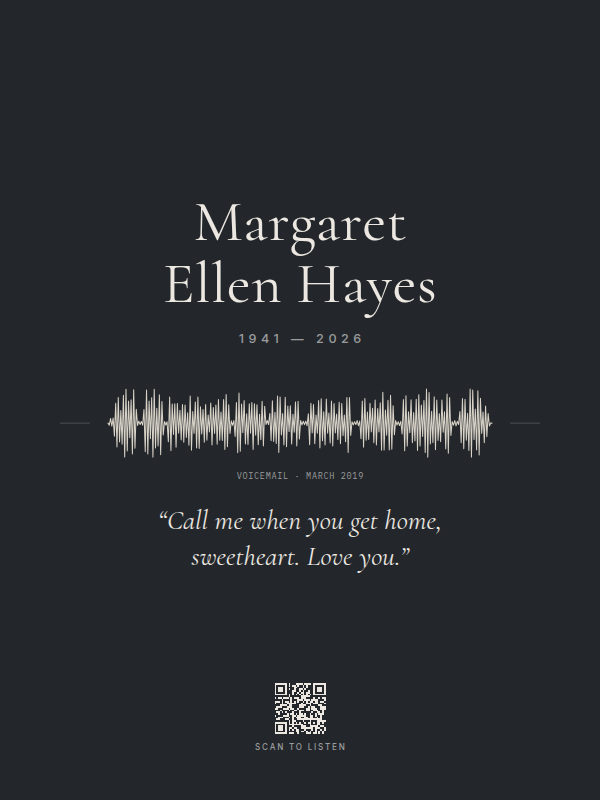
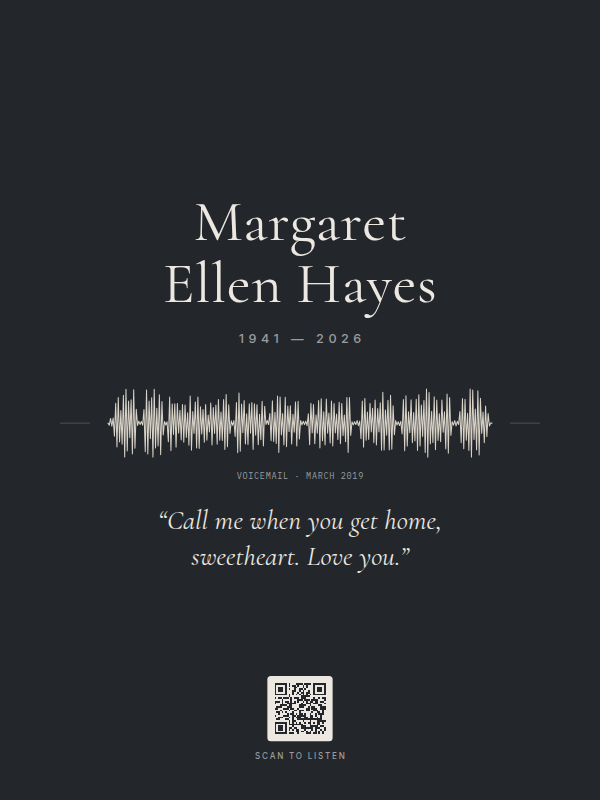
Render curated orders to vector PDF in fulfillment; make QR codes scan reliably
- fulfill.py renders orders with artworkSpec through scripts/render-art.ts
  (same renderer as the preview): exact physical size, embedded fonts
- QR codes: always dark-on-light (light tile on dark colourways) with a
  4-module quiet zone and 0.9in minimum; all 45 design/colour/size
  combinations decode with ZXing at 100 px/in

Claude-Session: https://claude.ai/code/session_01EBDdCRdz58Q2dPUuYL21jA

Changed region(s): [[0.42, 0.8438, 0.57, 0.9688]]

diff --git a/src/lib/art/designs/common.ts b/src/lib/art/designs/common.ts
@@ -6,7 +6,7 @@ import type { Colorway, RenderContext } from "../types";
 export const upi = (ctx: RenderContext) => ctx.W / ctx.opts.widthIn;
 
 /** QR size in canvas units: never smaller than `minIn` physical inches (scan reliability). */
-export function qrSize(ctx: RenderContext, minIn = 0.85, share = 0.085): number {
+export function qrSize(ctx: RenderContext, minIn = 0.9, share = 0.085): number {
   return Math.max(minIn * upi(ctx), ctx.W * share);
 }
 
@@ -36,12 +36,22 @@ export function qrBlock(
   const align = o.align ?? "center";
   const left = align === "center" ? o.x - size / 2 : align === "right" ? o.x - size : o.x;
   const labelSize = minType(ctx);
-  let svg = qrPath(qrUrl(ctx), left, o.y, size, o.color);
+  // Phone cameras expect dark modules on a light ground. On dark colourways the
+  // code sits on a small light tile (with quiet zone) instead of being inverted.
+  const paper = ctx.colorway.paper;
+  let svg: string;
+  if (luminance(o.color) > luminance(paper)) {
+    const pad = size * 0.14; // ≈4 modules of quiet zone for a version-3 code
+    svg = `<rect x="${(left - pad).toFixed(2)}" y="${(o.y - pad).toFixed(2)}" width="${(size + pad * 2).toFixed(2)}" height="${(size + pad * 2).toFixed(2)}" rx="${(pad * 0.5).toFixed(2)}" fill="${o.color}"/>`;
+    svg += qrPath(qrUrl(ctx), left, o.y, size, paper);
+  } else {
+    svg = qrPath(qrUrl(ctx), left, o.y, size, o.color);
+  }
   let height = size;
   if (o.label) {
     svg += text(o.label, {
-      x: align === "center" ? o.x : align === "right" ? o.x : o.x,
-      y: o.y + size + labelSize * 1.9,
+      x: o.x,
+      y: o.y + size + labelSize * (luminance(o.color) > luminance(paper) ? 3.1 : 1.9),
       size: labelSize,
       face: F.sansMedium,
       fill: o.labelColor ?? o.color,
@@ -68,3 +78,15 @@ export function cw(
 
 /** Clamp helper for layout math. */
 export const clamp = (v: number, lo: number, hi: number) => Math.max(lo, Math.min(hi, v));
+
+/** Relative luminance of a #RRGGBB colour (0 black … 1 white). */
+export function luminance(hex: string): number {
+  const m = /^#?([0-9a-f]{6})$/i.exec(hex.trim());
+  if (!m) return 0.5;
+  const n = parseInt(m[1], 16);
+  const ch = [(n >> 16) & 255, (n >> 8) & 255, n & 255].map((v) => {
+    const c = v / 255;
+    return c <= 0.03928 ? c / 12.92 : ((c + 0.055) / 1.055) ** 2.4;
+  });
+  return 0.2126 * ch[0] + 0.7152 * ch[1] + 0.0722 * ch[2];
+}

diff --git a/src/lib/art/designs/herbarium.ts b/src/lib/art/designs/herbarium.ts
@@ -136,7 +136,7 @@ function render(ctx: RenderContext): string {
   }
 
   // Annotation + QR, bottom-left
-  const q = qrBlock(ctx, { x: m, y: H - m - W * 0.11, color: c.ink, align: "left", label: "Scan to listen", labelColor: c.muted, minIn: 0.8 });
+  const q = qrBlock(ctx, { x: m, y: H - m - W * 0.11, color: c.ink, align: "left", label: "Scan to listen", labelColor: c.muted, minIn: 0.9 });
   if (q.svg) {
     const qy = H - m - q.height + small * 0.3;
     s += `<g transform="translate(0 ${r(qy - (H - m - W * 0.11))})">${q.svg}</g>`;

diff --git a/src/lib/art/designs/linerNotes.ts b/src/lib/art/designs/linerNotes.ts
@@ -71,7 +71,7 @@ function render(ctx: RenderContext): string {
     const vs = fitSize(value, F.monoMedium, colW - W * 0.02, valueSize, small);
     s += text(value, { x, y: valueY, size: vs, face: F.monoMedium, fill: c.ink });
   });
-  const q = qrBlock(ctx, { x: W - m, y: labelY - small * 0.8, color: c.ink, align: "right", minIn: 0.8 });
+  const q = qrBlock(ctx, { x: W - m, y: ruleY + W * 0.028, color: c.ink, align: "right", minIn: 0.9 });
   if (q.svg) {
     s += q.svg;
     s += text("Scan to play", {

diff --git a/backend/fulfill.py b/backend/fulfill.py
@@ -170,6 +170,7 @@ def fetch_order_details(conn: sqlite3.Connection, order_id: str) -> Optional[Dic
                 "status": d.get("status", "pending_payment"),
                 "partner_order_id": d.get("partnerOrderId"),
                 "total_amount": d.get("totalAmount", 0),
+                "artwork_spec": d.get("artworkSpec"),
             }
 
     if "orders" in tables:
@@ -480,6 +481,36 @@ def step_compile_pdf(
     return pdf_path
 
 
+def step_render_curated(order: Dict[str, Any], prints_dir: Path, previews_dir: Path) -> Tuple[Path, Path, str, int]:
+    """
+    Curated-design orders (Order.artworkSpec): renders the print file with the
+    same TypeScript renderer that drew the customer's preview, so print and
+    preview are identical. Output is a vector PDF at exact physical size, plus
+    a PNG proof. Returns (pdf_path, preview_path, public_preview_url, pdf_bytes).
+    """
+    import subprocess
+
+    spec = json.loads(order["artwork_spec"])
+    spec_path = prints_dir / f"{order['id']}.spec.json"
+    spec_path.write_text(json.dumps(spec), encoding="utf-8")
+    pdf_path = prints_dir / f"{order['id']}.pdf"
+    preview_path = previews_dir / f"{order['id']}_preview.png"
+    npx = "npx.cmd" if sys.platform == "win32" else "npx"
+    result = subprocess.run(
+        [npx, "tsx", "scripts/render-art.ts", "print", str(spec_path), str(pdf_path), "--png", str(preview_path)],
+        cwd=str(PROJECT_ROOT),
+        capture_output=True,
+        text=True,
+        timeout=180,
+    )
+    if result.returncode != 0 or not pdf_path.exists():
+        raise RuntimeError(f"Artwork render failed: {result.stderr.strip()[-800:]}")
+    size = pdf_path.stat().st_size
+    if size < 5_000:
+        raise RuntimeError(f"Rendered PDF is implausibly small ({size} bytes)")
+    return pdf_path, preview_path, f"/api/orders/{order['id']}/preview", size
+
+
 def step_verify_pdf(pdf_path: Path) -> int:
     """Step 4: Asserts PDF file exists, has valid header, and file size >= 1,000,000 bytes."""
     if not pdf_path.exists():
@@ -640,6 +671,36 @@ def step_dispatch_email(
 # 3. Main Fulfillment Orchestrator Function
 # ============================================================================
 
+def _finish_fulfillment(conn, order, order_id, pdf_path, pdf_size, public_preview_url, schema_type, provider_name, email_provider, start_time):
+    """Steps 6-8 shared by legacy and curated orders."""
+    partner_order_id = step_submit_partner(order, pdf_path, provider_override=provider_name)
+    add_fulfillment_log(conn, order_id, "submit_to_print_partner", "completed", f"Partner ID: {partner_order_id}")
+    email_res = step_dispatch_email(order, public_preview_url, email_override=email_provider)
+    add_fulfillment_log(conn, order_id, "dispatch_confirmation_email", "completed", f"Email ID: {email_res.get('id')}")
+    rel_pdf_path = f"storage/print_pdfs/{pdf_path.name}"
+    update_order_fulfillment_success(
+        conn=conn,
+        order_id=order_id,
+        partner_order_id=partner_order_id,
+        pdf_path=rel_pdf_path,
+        preview_url=public_preview_url,
+        schema_type=schema_type,
+        pdf_size_bytes=pdf_size,
+    )
+    add_fulfillment_log(conn, order_id, "update_order_status_to_submitted", "completed", "Status: fulfillment_submitted")
+    return {
+        "success": True,
+        "orderId": order_id,
+        "status": "fulfillment_submitted",
+        "partnerOrderId": partner_order_id,
+        "pdfPath": rel_pdf_path,
+        "previewUrl": public_preview_url,
+        "pdfSizeBytes": pdf_size,
+        "elapsedSeconds": round(time.time() - start_time, 2),
+        "steps": ["fetch_order_from_db", "render_curated_artwork", "submit_to_print_partner", "dispatch_confirmation_email", "update_order_status_to_submitted"],
+    }
+
+
 def run_fulfillment(
     order_id: str,
     provider_name: Optional[str] = None,
@@ -677,6 +738,13 @@ def run_fulfillment(
     previews_dir.mkdir(parents=True, exist_ok=True)
 
     try:
+        if order.get("artwork_spec"):
+            # Curated designs: steps 2-5 collapse into one deterministic vector render.
+            logger.info("Steps 2-5: render curated artwork (vector PDF + proof)")
+            pdf_path, preview_path, public_preview_url, pdf_size = step_render_curated(order, prints_dir, previews_dir)
+            add_fulfillment_log(conn, order_id, "render_curated_artwork", "completed", f"{pdf_path.name} ({pdf_size} bytes)")
+            return _finish_fulfillment(conn, order, order_id, pdf_path, pdf_size, public_preview_url, schema_type, provider_name, email_provider, start_time)
+
         # Step 2: generate_waveform
         logger.info("Step 2: generate_waveform")
         wave_path = step_generate_waveform(order, previews_dir)
